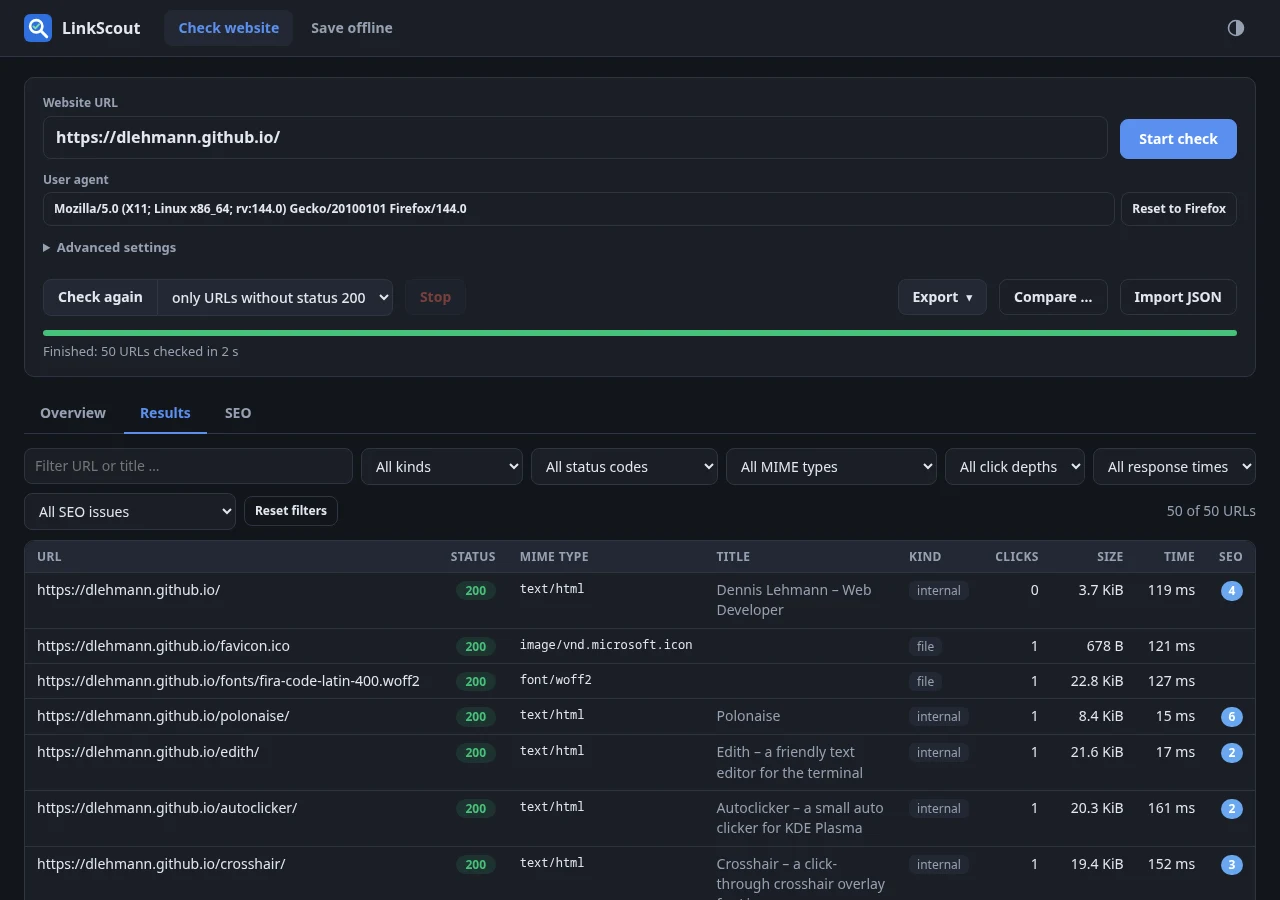
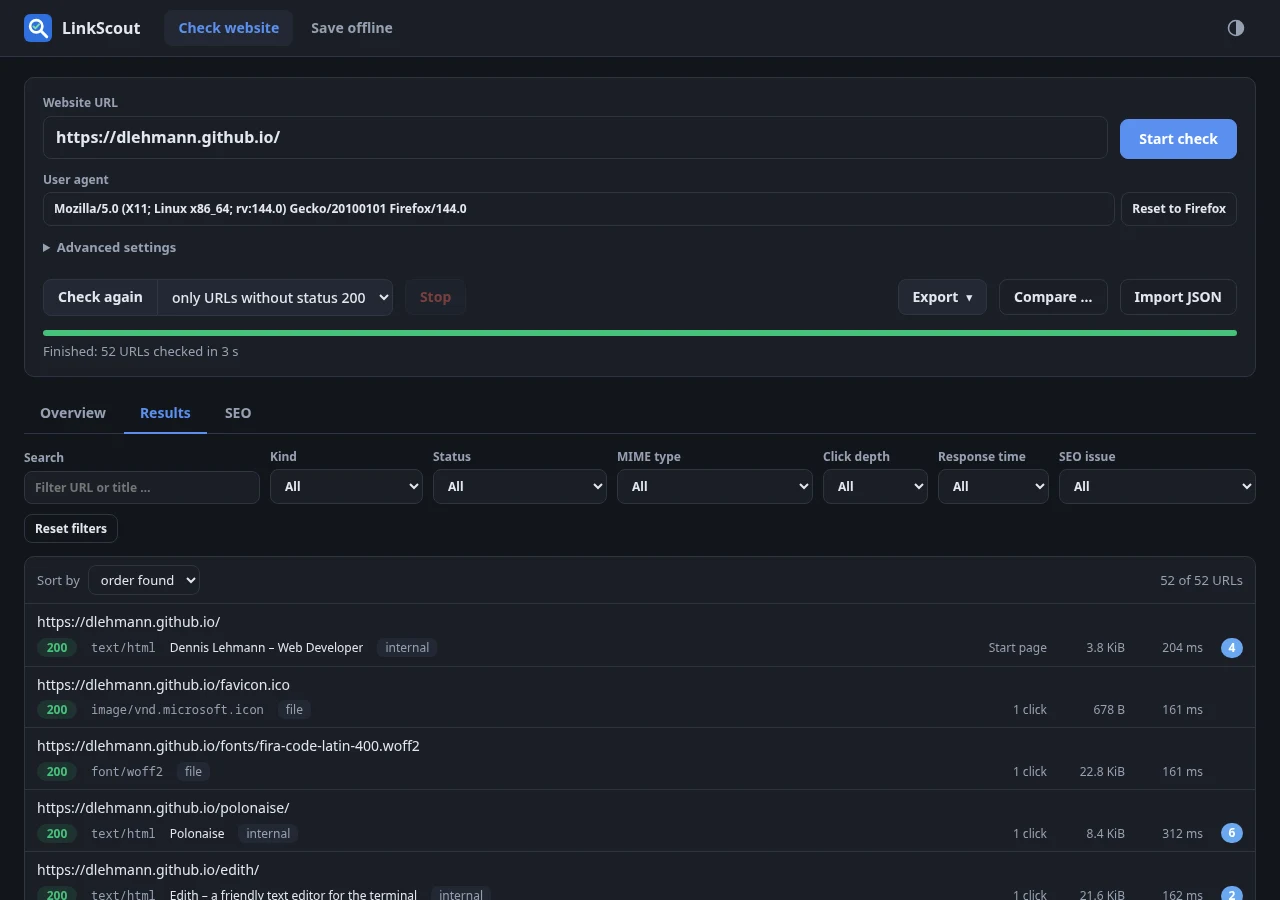
Results list with two-line entries, labelled filters
- the URL gets the full width of the first line, status, MIME type,
  title, kind, clicks, size, time and SEO issues follow on the second
- sorting by a "Sort by" selection with direction button
- every filter has a label, the first option is simply "All"; a filter
  that is set is highlighted
- new results screenshots

diff --git a/internal/server/web/app.js b/internal/server/web/app.js
@@ -469,65 +469,84 @@
   function renderResults() {
     const all = state.results || [];
     const types = [...new Set(all.map(typeOf).filter(Boolean))].sort();
-    fillSelect($("#f-kind"), t("filter.all_kinds"),
+    fillSelect($("#f-kind"), t("filter.all"),
       [...["internal", "external", "file"].map((k) => [k, t(`kind.${k}`)]), ["noint", t("filter.kind_noint")], ["noext", t("filter.kind_noext")]], ui.kind);
     const codes = [...new Set(all.map((r) => r.status).filter((c) => c > 0))].sort((a, b) => a - b);
-    fillSelect($("#f-status"), t("filter.all_status"), [
+    fillSelect($("#f-status"), t("filter.all"), [
       ["not200", t("status.not200")], ["broken", t("status.broken")], ["redirected", t("status.redirected")],
       ...["2xx", "3xx", "4xx", "5xx", "error", "pending"].map((c) => [c, t(`status.${c}`)]),
       ...codes.map((c) => [`c${c}`, t("status.code", { code: c })]),
     ], ui.status);
     const mimeOptions = types.map((x) => [x, x]);
     if (all.some((r) => !typeOf(r))) mimeOptions.push([UNKNOWN_TYPE, t("stats.unknown_type")]);
-    fillSelect($("#f-type"), t("filter.all_types"), mimeOptions, ui.type);
-    fillSelect($("#f-time"), t("filter.all_times"), TIME_BUCKETS.map((_, i) => [String(i), timeLabel(i)]), ui.time);
+    fillSelect($("#f-type"), t("filter.all"), mimeOptions, ui.type);
+    fillSelect($("#f-time"), t("filter.all"), TIME_BUCKETS.map((_, i) => [String(i), timeLabel(i)]), ui.time);
     const depths = [...new Set(all.map((r) => Math.min(r.depth || 0, MAX_DEPTH)))].sort((a, b) => (a < 0) - (b < 0) || a - b);
-    fillSelect($("#f-depth"), t("filter.all_depths"),
+    fillSelect($("#f-depth"), t("filter.all"),
       depths.map((d) => [d >= MAX_DEPTH ? `${MAX_DEPTH}+` : String(d), clickLabel(d)]), ui.depth);
     const issues = state.issues || [];
-    fillSelect($("#f-issue"), t("filter.all_issues"),
+    fillSelect($("#f-issue"), t("filter.all"),
       [...(issues.length ? [["*", t("filter.any_issue")]] : []), ...issues.map((i) => [i.id, t(`issue.${i.id}`)])], ui.issue);
     $("#f-search").value = ui.search;
 
-    for (const th of $$("#results-table th")) {
-      th.classList.toggle("sorted", th.dataset.sort === ui.sortKey);
-      th.classList.toggle("desc", th.dataset.sort === ui.sortKey && ui.sortDesc);
-    }
+    // a filter that is set is highlighted, so a restricted list is obvious
+    for (const sel of $$(".filters select")) sel.classList.toggle("active", sel.value !== "");
+    fillSelect($("#sort-key"), t("sort.none"), SORT_KEYS.map(([k, label]) => [k, t(label)]), ui.sortKey);
+    const dir = $("#sort-dir");
+    dir.hidden = !ui.sortKey;
+    dir.textContent = t(ui.sortDesc ? "sort.desc" : "sort.asc");
 
     const rows = sorted(filtered());
     $("#f-count").textContent = t("filter.count", { shown: fmtNum(rows.length), total: fmtNum(all.length) });
     $("#table-empty").hidden = rows.length > 0;
-    $("#results-table tbody").innerHTML = rows.slice(0, MAX_ROWS).map((r) => {
-      const cls = statusClass(r);
-      const status = r.pending ? "…" : r.status || "ERR";
-      const final = r.finalUrl ? urlCell(r.finalUrl, "final") : "";
-      return `<tr data-url="${esc(r.url)}">
-        <td class="url">${urlCell(r.url)}${final}</td>
-        <td class="num"><span class="badge s${cls}" title="${esc(errText(r.error))}">${status}</span></td>
-        <td class="type">${esc(typeOf(r))}</td>
-        <td class="title">${esc(r.title || errText(r.error))}</td>
-        <td><span class="kind">${esc(t(`kind.${r.kind}`))}</span></td>
-        <td class="num">${(r.depth || 0) === NOT_LINKED ? "–" : r.depth || 0}</td>
-        <td class="num">${r.pending ? "" : fmtBytes(r.size)}</td>
-        <td class="num">${r.pending ? "" : fmtMs(r.durationMs)}</td>
-        <td class="num">${issueBadge(r)}</td>
-      </tr>`;
-    }).join("");
+    $("#results-list").innerHTML = rows.slice(0, MAX_ROWS).map(resultRow).join("");
   }
 
-  for (const th of $$("#results-table th")) {
-    th.addEventListener("click", () => {
-      const k = th.dataset.sort;
-      if (ui.sortKey === k) {
-        if (ui.sortDesc) { ui.sortKey = ""; ui.sortDesc = false; } // third click: unsorted
-        else ui.sortDesc = true;
-      } else {
-        ui.sortKey = k; ui.sortDesc = false;
-      }
-      save("linkscout.ui", ui);
-      renderResults();
-    });
+  /** The columns the list can be sorted by (the second line of a row). */
+  const SORT_KEYS = [
+    ["url", "col.url"], ["status", "col.status"], ["type", "col.type"], ["title", "col.title"],
+    ["kind", "col.kind"], ["depth", "col.depth"], ["size", "col.size"], ["durationMs", "col.time"], ["issues", "col.seo"],
+  ];
+
+  /**
+   * One entry of the results list: the URL (shortened at the start when it
+   * does not fit) on the first line, the redirect target below it, then
+   * status, MIME type, title and kind; clicks, size, time and SEO issues
+   * align right.
+   */
+  function resultRow(r) {
+    const cls = statusClass(r);
+    const status = r.pending ? "…" : r.status || "ERR";
+    const depth = (r.depth || 0) === NOT_LINKED ? t("stats.not_linked") : clickLabel(r.depth || 0);
+    return `<div class="result" role="listitem" data-url="${esc(r.url)}">
+      <div class="r-url">${urlCell(r.url)}</div>
+      ${r.finalUrl ? `<div class="r-final">${urlCell(r.finalUrl, "final")}</div>` : ""}
+      <div class="r-meta">
+        <span class="badge s${cls}" title="${esc(errText(r.error))}">${status}</span>
+        <span class="r-type">${esc(typeOf(r) || "–")}</span>
+        <span class="r-title">${esc(r.title || errText(r.error) || "")}</span>
+        <span class="kind">${esc(t(`kind.${r.kind}`))}</span>
+        <span class="r-nums">
+          <span title="${esc(t("col.depth"))}">${esc(depth)}</span>
+          <span title="${esc(t("col.size"))}">${r.pending ? "" : fmtBytes(r.size)}</span>
+          <span title="${esc(t("col.time"))}">${r.pending ? "" : fmtMs(r.durationMs)}</span>
+          <span class="r-seo">${issueBadge(r)}</span>
+        </span>
+      </div>
+    </div>`;
   }
+
+  $("#sort-key").addEventListener("change", (e) => {
+    ui.sortKey = e.target.value;
+    ui.sortDesc = ["status", "size", "durationMs", "issues"].includes(ui.sortKey); // big numbers first
+    save("linkscout.ui", ui);
+    renderResults();
+  });
+  $("#sort-dir").addEventListener("click", () => {
+    ui.sortDesc = !ui.sortDesc;
+    save("linkscout.ui", ui);
+    renderResults();
+  });
   $("#f-search").addEventListener("input", (e) => { ui.search = e.target.value; save("linkscout.ui", ui); renderResults(); });
   for (const [id, key] of [["#f-kind", "kind"], ["#f-status", "status"], ["#f-type", "type"], ["#f-depth", "depth"], ["#f-time", "time"], ["#f-issue", "issue"]]) {
     $(id).addEventListener("change", (e) => { ui[key] = e.target.value; save("linkscout.ui", ui); renderResults(); });
@@ -540,9 +559,9 @@
 
   // --- detail dialog --------------------------------------------------------
 
-  $("#results-table tbody").addEventListener("click", (e) => {
+  $("#results-list").addEventListener("click", (e) => {
     if (e.target.closest("a")) return; // the link itself opens in a new tab
-    const tr = e.target.closest("tr");
+    const tr = e.target.closest(".result");
     if (tr) openDetail(tr.dataset.url);
   });
   $("#detail-close").addEventListener("click", () => $("#detail").close());

diff --git a/internal/server/web/style.css b/internal/server/web/style.css
@@ -163,45 +163,57 @@ details.advanced summary { cursor: pointer; color: var(--muted); font-weight: 60
 /* --- results ------------------------------------------------------------- */
 .tab-panel { display: none; }
 .tab-panel.active { display: block; }
-.filters { display: flex; flex-wrap: wrap; gap: 8px; align-items: center; margin-bottom: 10px; }
-.filters input[type="search"] { flex: 1 1 260px; }
+/* Filter bar: every select has a label above it, a set filter is
+   highlighted in the accent colour. */
+.filters { display: flex; flex-wrap: wrap; gap: 10px; align-items: flex-end; margin-bottom: 12px; }
+.filters label.filter { min-width: 0; }
+.filters label.search { flex: 1 1 220px; }
+.filters label.search input { width: 100%; }
+.filters select { max-width: 220px; }
+.filters select.active {
+  border-color: var(--accent); color: var(--accent); font-weight: 600;
+  background-color: color-mix(in srgb, var(--accent) 10%, var(--surface));
+}
+.filters #f-reset { margin-bottom: 1px; }
 .muted { color: var(--muted); }
 
-.table-wrap {
+/* Two-line results list (see resultRow() in app.js). */
+.list-wrap {
   background: var(--surface);
   border: 1px solid var(--border);
   border-radius: var(--radius);
   box-shadow: var(--shadow);
-  overflow: auto;
-  max-height: calc(100vh - 160px);
 }
-table { width: 100%; border-collapse: collapse; }
-th, td { padding: 7px 12px; text-align: left; border-bottom: 1px solid var(--border); vertical-align: top; }
-th {
-  position: sticky; top: 0; z-index: 1;
-  background: var(--surface-2);
-  font-size: 12px; text-transform: uppercase; letter-spacing: .03em; color: var(--muted);
-  cursor: pointer; user-select: none; white-space: nowrap;
+.list-bar {
+  display: flex; flex-wrap: wrap; align-items: center; gap: 8px;
+  padding: 8px 12px; border-bottom: 1px solid var(--border);
+  font-size: 13px; color: var(--muted);
 }
-th:hover { color: var(--text); }
-th.sorted::after { content: " ▲"; color: var(--accent); }
-th.sorted.desc::after { content: " ▼"; }
-th.num, td.num { text-align: right; font-variant-numeric: tabular-nums; white-space: nowrap; }
-tbody tr { cursor: pointer; }
-tbody tr:hover { background: var(--row-hover); }
-/* The URL column takes the remaining width (max-width: 0 lets it shrink);
-   long URLs are cut at the start, see urlCell() in app.js. */
-td.url { width: 45%; max-width: 0; min-width: 220px; }
-td.url .u {
+.list-bar select { padding: 4px 8px; font-size: 13px; }
+.result { padding: 8px 12px; border-bottom: 1px solid var(--border); cursor: pointer; }
+.result:last-child { border-bottom: 0; }
+.result:hover { background: var(--row-hover); }
+/* Long URLs are cut at the start, see urlCell() in app.js. */
+.result .u {
   display: block; overflow: hidden; white-space: nowrap; text-overflow: ellipsis;
   direction: rtl; text-align: left;
 }
-td.url a.u { color: var(--text); text-decoration: none; }
-td.url a.u:hover { color: var(--accent); text-decoration: underline; }
-td.url .final, td.url a.final { color: var(--muted); font-size: 12px; margin-top: 2px; padding-left: 16px; position: relative; }
-td.url .final::before { content: "↳"; position: absolute; left: 0; direction: ltr; }
-td.title { color: var(--muted); min-width: 160px; }
-td.type { font-family: ui-monospace, "JetBrains Mono", Menlo, monospace; font-size: 12px; }
+.r-url .u { font-size: 14px; }
+.result a.u { color: var(--text); text-decoration: none; }
+.result a.u:hover { color: var(--accent); text-decoration: underline; }
+.r-final { color: var(--muted); font-size: 12px; margin-top: 1px; padding-left: 16px; position: relative; }
+.r-final::before { content: "↳"; position: absolute; left: 0; }
+.r-final a.u { color: var(--muted); }
+.r-meta {
+  display: flex; flex-wrap: wrap; align-items: center; gap: 4px 14px;
+  margin-top: 5px; font-size: 12px; color: var(--muted); min-width: 0;
+}
+.r-type { font-family: ui-monospace, "JetBrains Mono", Menlo, monospace; }
+.r-title { color: var(--text); max-width: 340px; overflow: hidden; white-space: nowrap; text-overflow: ellipsis; }
+.r-title:empty { display: none; }
+.r-nums { margin-left: auto; display: flex; gap: 14px; align-items: center; font-variant-numeric: tabular-nums; white-space: nowrap; }
+.r-nums > span { min-width: 64px; text-align: right; }
+.r-nums > span.r-seo { min-width: 26px; }
 .empty { padding: 30px; text-align: center; color: var(--muted); }
 
 .badge {
@@ -261,7 +273,11 @@ footer { text-align: center; color: var(--muted); font-size: 12px; padding: 0 24
   .tabs { order: 3; flex-basis: 100%; overflow-x: auto; }
   main { padding: 14px 16px 30px; }
   input[type="number"] { width: 100%; }
-  td.url { min-width: 180px; }
+  .r-nums { margin-left: 0; width: 100%; justify-content: space-between; }
+  .r-nums > span { min-width: 0; }
+  .filters select { max-width: none; }
+  .filters label.filter { flex: 1 1 140px; }
+  .filters label.filter select { width: 100%; }
 }
 
 /* --- offline copy list --------------------------------------------------- */

diff --git a/internal/server/web/index.html b/internal/server/web/index.html
@@ -99,35 +99,27 @@
 
     <!-- Results -->
     <section class="tab-panel" id="tab-results">
+      <!-- every filter has a label; its first option is "All" -->
       <div class="filters">
-        <input type="search" id="f-search" data-i18n-placeholder="filter.search">
-        <select id="f-kind"></select>
-        <select id="f-status"></select>
-        <select id="f-type"></select>
-        <select id="f-depth"></select>
-        <select id="f-time"></select>
-        <select id="f-issue"></select>
+        <label class="filter search"><span data-i18n="filter.label_search"></span><input type="search" id="f-search" data-i18n-placeholder="filter.search"></label>
+        <label class="filter"><span data-i18n="filter.label_kind"></span><select id="f-kind"></select></label>
+        <label class="filter"><span data-i18n="filter.label_status"></span><select id="f-status"></select></label>
+        <label class="filter"><span data-i18n="filter.label_type"></span><select id="f-type"></select></label>
+        <label class="filter"><span data-i18n="filter.label_depth"></span><select id="f-depth"></select></label>
+        <label class="filter"><span data-i18n="filter.label_time"></span><select id="f-time"></select></label>
+        <label class="filter"><span data-i18n="filter.label_issue"></span><select id="f-issue"></select></label>
         <button type="button" class="ghost small" id="f-reset" data-i18n="filter.reset"></button>
-        <span class="spacer"></span>
-        <span class="muted" id="f-count"></span>
       </div>
-      <div class="table-wrap">
-        <table id="results-table">
-          <thead>
-            <tr>
-              <th data-sort="url" data-i18n="col.url"></th>
-              <th data-sort="status" class="num" data-i18n="col.status"></th>
-              <th data-sort="type" data-i18n="col.type"></th>
-              <th data-sort="title" data-i18n="col.title"></th>
-              <th data-sort="kind" data-i18n="col.kind"></th>
-              <th data-sort="depth" class="num" data-i18n="col.depth" data-i18n-title="stats.chart_depth_sub"></th>
-              <th data-sort="size" class="num" data-i18n="col.size"></th>
-              <th data-sort="durationMs" class="num" data-i18n="col.time"></th>
-              <th data-sort="issues" class="num" data-i18n="col.seo"></th>
-            </tr>
-          </thead>
-          <tbody></tbody>
-        </table>
+      <!-- two-line list: URL on the first line, the values on the second -->
+      <div class="list-wrap">
+        <div class="list-bar">
+          <span data-i18n="sort.by"></span>
+          <select id="sort-key" aria-label="sort"></select>
+          <button type="button" class="ghost small" id="sort-dir"></button>
+          <span class="spacer"></span>
+          <span class="muted" id="f-count"></span>
+        </div>
+        <div id="results-list" role="list"></div>
         <div class="empty" id="table-empty" data-i18n="table.empty" hidden></div>
       </div>
     </section>

diff --git a/internal/i18n/lang_de.go b/internal/i18n/lang_de.go
@@ -81,13 +81,20 @@ func init() {
 		"col.size":            "Größe",
 		"col.time":            "Zeit",
 		"filter.search":       "URL oder Titel filtern …",
-		"filter.all_kinds":    "Alle Arten",
+		"filter.all":          "Alle",
+		"filter.label_search": "Suche",
+		"filter.label_kind":   "Art",
+		"filter.label_status": "Status",
+		"filter.label_type":   "MIME-Type",
+		"filter.label_depth":  "Klicktiefe",
+		"filter.label_time":   "Antwortzeit",
+		"filter.label_issue":  "SEO-Problem",
+		"sort.by":             "Sortieren nach",
+		"sort.none":           "Fundreihenfolge",
+		"sort.asc":            "aufsteigend ↑",
+		"sort.desc":           "absteigend ↓",
 		"filter.kind_noint":   "alle außer intern",
 		"filter.kind_noext":   "alle außer extern",
-		"filter.all_status":   "Alle Statuscodes",
-		"filter.all_types":    "Alle MIME-Types",
-		"filter.all_times":    "Alle Antwortzeiten",
-		"filter.all_depths":   "Alle Klicktiefen",
 		"filter.count":        "%shown% von %total% URLs",
 		"filter.reset":        "Filter zurücksetzen",
 		"kind.internal":       "intern",
@@ -293,7 +300,6 @@ func init() {
 		"form.export_html":         "HTML-Bericht",
 		"form.compare":             "Vergleichen …",
 		"col.seo":                  "SEO",
-		"filter.all_issues":        "Alle SEO-Probleme",
 		"filter.any_issue":         "irgendein SEO-Problem",
 		"sev.error":                "Fehler",
 		"sev.warning":              "Warnung",

diff --git a/internal/i18n/lang_en.go b/internal/i18n/lang_en.go
@@ -86,13 +86,20 @@ func init() {
 		"col.size":            "Size",
 		"col.time":            "Time",
 		"filter.search":       "Filter URL or title …",
-		"filter.all_kinds":    "All kinds",
+		"filter.all":          "All",
+		"filter.label_search": "Search",
+		"filter.label_kind":   "Kind",
+		"filter.label_status": "Status",
+		"filter.label_type":   "MIME type",
+		"filter.label_depth":  "Click depth",
+		"filter.label_time":   "Response time",
+		"filter.label_issue":  "SEO issue",
+		"sort.by":             "Sort by",
+		"sort.none":           "order found",
+		"sort.asc":            "ascending ↑",
+		"sort.desc":           "descending ↓",
 		"filter.kind_noint":   "all except internal",
 		"filter.kind_noext":   "all except external",
-		"filter.all_status":   "All status codes",
-		"filter.all_types":    "All MIME types",
-		"filter.all_times":    "All response times",
-		"filter.all_depths":   "All click depths",
 		"filter.count":        "%shown% of %total% URLs",
 		"filter.reset":        "Reset filters",
 		"kind.internal":       "internal",
@@ -301,7 +308,6 @@ func init() {
 		"form.export_html":         "HTML report",
 		"form.compare":             "Compare …",
 		"col.seo":                  "SEO",
-		"filter.all_issues":        "All SEO issues",
 		"filter.any_issue":         "any SEO issue",
 		"sev.error":                "Error",
 		"sev.warning":              "Warning",

diff --git a/AGENTS.md b/AGENTS.md
@@ -198,8 +198,12 @@ make release    # dist/linkscout-{linux-amd64,linux-arm64,darwin-arm64}
   external links are left out of the statistics the drill sets
   `kind: "noext"` (all except external), so the list count equals the clicked
   number.
-  Every filter value is also a visible column (Klicks = depth, plus Größe);
-  a separate "this/other website" column was dropped as redundant with Art. Long URLs are cut at the *start* with an ellipsis
+  Every filter value is also visible in the list (clicks = depth, plus size);
+  a separate "this/other website" column was dropped as redundant with Art.
+  The results list is not a table but two-line entries (`resultRow()`): the
+  URL on the first line, the values on the second; sorting is a "Sort by"
+  select plus direction button (`SORT_KEYS`). Every filter has a label
+  above it and "All"/"Alle" as first option; a set filter gets `.active`. Long URLs are cut at the *start* with an ellipsis
   (`urlCell()`: `direction: rtl` + LRM marks, `td.url { max-width: 0 }`);
   the full URL is in the `title` tooltip. URLs in the list are links; every link to another
   origin opens in a new tab (`target=_blank`, `noopener noreferrer`, enforced

diff --git a/CHANGELOG.md b/CHANGELOG.md
@@ -5,6 +5,16 @@ All notable changes to LinkScout. The format follows
 [Semantic Versioning](https://semver.org/). The release workflow uses the
 section of a version as release notes.
 
+## [Unreleased]
+
+### Changed
+
+- Results list: two-line entries – the URL gets the full width of the first
+  line, status, MIME type, title, kind, clicks, size, time and SEO issues
+  follow on the second line. Sorting moved to a "Sort by" selection
+- Filters have labels, their first option is simply "All"; a filter that is
+  set is highlighted
+
 ## [1.1.0] - 2026-10-21
 
 ### Added
@@ -61,5 +71,6 @@ First public release.
 - English and German UI by system language
 - Static binaries for Linux (x86_64, arm64) and macOS (Apple Silicon)
 
+[Unreleased]: https://github.com/dlehmann/linkscout/compare/v1.1.0...HEAD
 [1.1.0]: https://github.com/dlehmann/linkscout/compare/v1.0.0...v1.1.0
 [1.0.0]: https://github.com/dlehmann/linkscout/releases/tag/v1.0.0
